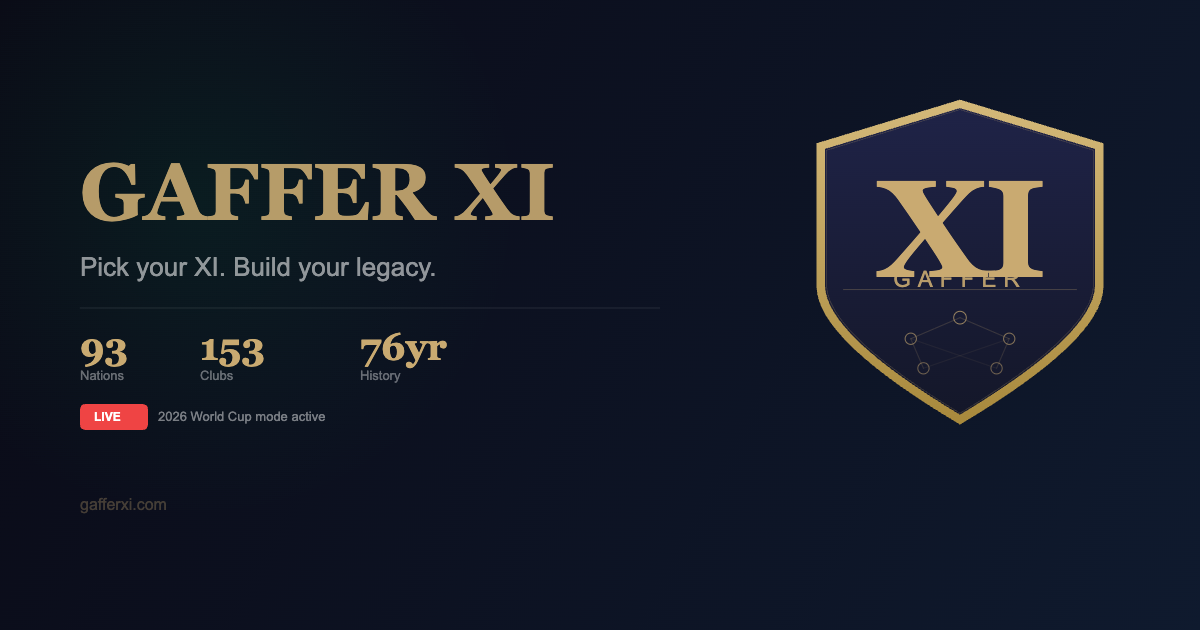
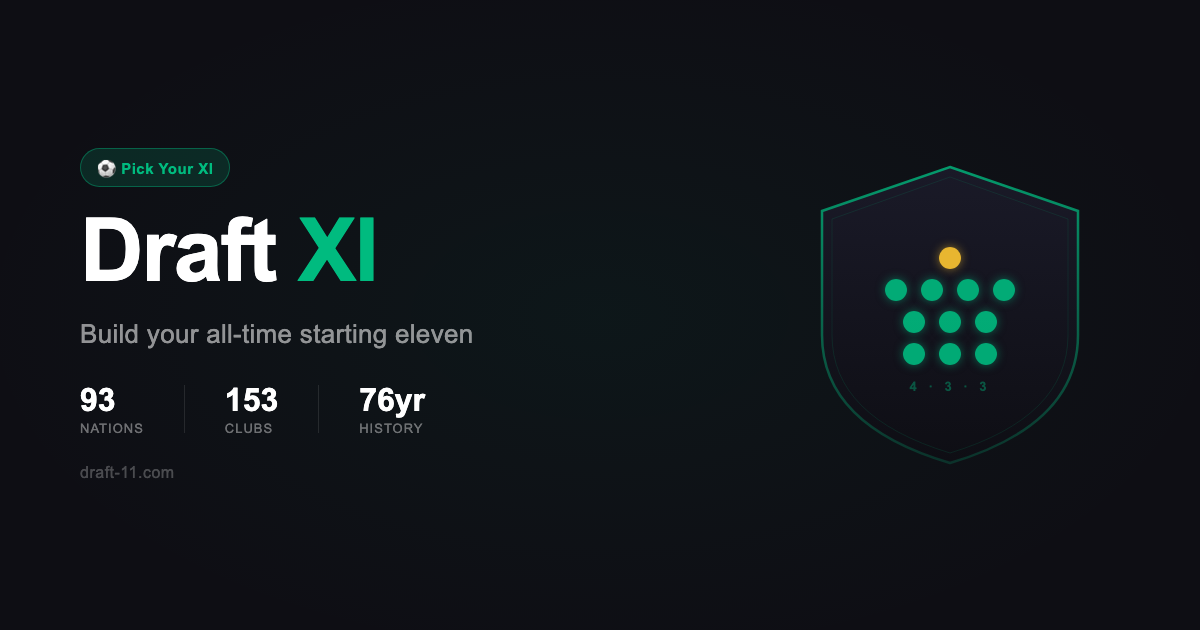
feat: update OG share image to Draft XI branding
Replaces old Gaffer XI preview card with new dark-theme 1200×630 image
showing Draft XI name, green accent, formation shield, and draft-11.com URL.

diff --git a/_og-gen.html b/_og-gen.html
@@ -1,0 +1,228 @@
+<!DOCTYPE html>
+<html>
+<head>
+<meta charset="utf-8">
+<style>
+  * { margin: 0; padding: 0; box-sizing: border-box; }
+  body {
+    width: 1200px; height: 630px; overflow: hidden;
+    background: #0e0e14;
+    font-family: -apple-system, 'SF Pro Display', 'Segoe UI', Arial, sans-serif;
+    display: flex; align-items: center; justify-content: space-between;
+    padding: 0 80px;
+    position: relative;
+  }
+
+  /* Subtle pitch lines in background */
+  body::before {
+    content: '';
+    position: absolute; inset: 0;
+    background:
+      radial-gradient(ellipse 900px 500px at 50% 50%, rgba(0,187,127,0.05) 0%, transparent 70%);
+    pointer-events: none;
+  }
+
+  /* Decorative arc lines like a pitch */
+  .pitch-bg {
+    position: absolute; inset: 0;
+    opacity: 0.06;
+  }
+
+  .left {
+    flex: 1;
+    display: flex; flex-direction: column;
+    gap: 20px;
+    z-index: 1;
+  }
+
+  .tag {
+    display: inline-flex; align-items: center; gap: 8px;
+    background: rgba(0,187,127,0.15);
+    border: 1px solid rgba(0,187,127,0.4);
+    border-radius: 999px;
+    padding: 6px 16px;
+    width: fit-content;
+    color: #00bb7f;
+    font-size: 15px;
+    font-weight: 600;
+    letter-spacing: 0.5px;
+  }
+
+  .title {
+    font-size: 88px;
+    font-weight: 800;
+    color: #ffffff;
+    line-height: 1;
+    letter-spacing: -2px;
+  }
+
+  .title span {
+    color: #00bb7f;
+  }
+
+  .subtitle {
+    font-size: 26px;
+    color: rgba(255,255,255,0.55);
+    font-weight: 400;
+    letter-spacing: 0.3px;
+    margin-top: 4px;
+  }
+
+  .stats {
+    display: flex; gap: 40px;
+    margin-top: 12px;
+  }
+
+  .stat {
+    display: flex; flex-direction: column; gap: 2px;
+  }
+
+  .stat-num {
+    font-size: 32px;
+    font-weight: 700;
+    color: #ffffff;
+  }
+
+  .stat-label {
+    font-size: 13px;
+    color: rgba(255,255,255,0.4);
+    text-transform: uppercase;
+    letter-spacing: 1px;
+  }
+
+  .divider {
+    width: 1px; height: 48px;
+    background: rgba(255,255,255,0.1);
+    align-self: center;
+  }
+
+  .url {
+    margin-top: 8px;
+    font-size: 16px;
+    color: rgba(255,255,255,0.25);
+    letter-spacing: 0.5px;
+  }
+
+  /* Right side: formation badge */
+  .right {
+    flex-shrink: 0;
+    width: 340px;
+    display: flex; align-items: center; justify-content: center;
+    z-index: 1;
+  }
+
+  .badge {
+    width: 280px; height: 320px;
+    position: relative;
+    display: flex; align-items: center; justify-content: center;
+  }
+
+  .badge svg {
+    width: 100%; height: 100%;
+  }
+
+  .formation-grid {
+    position: absolute;
+    inset: 0;
+    display: flex; flex-direction: column;
+    align-items: center; justify-content: center;
+    gap: 10px;
+    padding: 60px 30px 50px;
+  }
+
+  .row {
+    display: flex; gap: 14px; justify-content: center;
+  }
+
+  .dot {
+    width: 22px; height: 22px;
+    border-radius: 50%;
+    background: rgba(0,187,127,0.9);
+    box-shadow: 0 0 10px rgba(0,187,127,0.5);
+  }
+
+  .dot.gk {
+    background: rgba(255,200,50,0.9);
+    box-shadow: 0 0 10px rgba(255,200,50,0.5);
+  }
+</style>
+</head>
+<body>
+
+<div class="left">
+  <div class="tag">⚽ Pick Your XI</div>
+  <div class="title">Draft<span> XI</span></div>
+  <div class="subtitle">Build your all-time starting eleven</div>
+  <div class="stats">
+    <div class="stat">
+      <div class="stat-num">93</div>
+      <div class="stat-label">Nations</div>
+    </div>
+    <div class="divider"></div>
+    <div class="stat">
+      <div class="stat-num">153</div>
+      <div class="stat-label">Clubs</div>
+    </div>
+    <div class="divider"></div>
+    <div class="stat">
+      <div class="stat-num">76yr</div>
+      <div class="stat-label">History</div>
+    </div>
+  </div>
+  <div class="url">draft-11.com</div>
+</div>
+
+<div class="right">
+  <div class="badge">
+    <!-- Shield shape -->
+    <svg viewBox="0 0 280 320" xmlns="http://www.w3.org/2000/svg">
+      <defs>
+        <linearGradient id="shieldGrad" x1="0" y1="0" x2="0" y2="1">
+          <stop offset="0%" stop-color="#1a1a28"/>
+          <stop offset="100%" stop-color="#0e0e14"/>
+        </linearGradient>
+        <linearGradient id="borderGrad" x1="0" y1="0" x2="0" y2="1">
+          <stop offset="0%" stop-color="#00bb7f" stop-opacity="0.8"/>
+          <stop offset="100%" stop-color="#00bb7f" stop-opacity="0.2"/>
+        </linearGradient>
+      </defs>
+      <!-- Shield fill -->
+      <path d="M140 12 L268 56 L268 180 Q268 270 140 308 Q12 270 12 180 L12 56 Z"
+            fill="url(#shieldGrad)" stroke="url(#borderGrad)" stroke-width="2.5"/>
+      <!-- Inner line -->
+      <path d="M140 22 L258 64 L258 180 Q258 262 140 298 Q22 262 22 180 L22 64 Z"
+            fill="none" stroke="rgba(0,187,127,0.12)" stroke-width="1"/>
+    </svg>
+    <!-- Formation dots 4-3-3 -->
+    <div class="formation-grid">
+      <!-- GK -->
+      <div class="row">
+        <div class="dot gk"></div>
+      </div>
+      <!-- DEF 4 -->
+      <div class="row">
+        <div class="dot"></div>
+        <div class="dot"></div>
+        <div class="dot"></div>
+        <div class="dot"></div>
+      </div>
+      <!-- MID 3 -->
+      <div class="row">
+        <div class="dot"></div>
+        <div class="dot"></div>
+        <div class="dot"></div>
+      </div>
+      <!-- FWD 3 -->
+      <div class="row">
+        <div class="dot"></div>
+        <div class="dot"></div>
+        <div class="dot"></div>
+      </div>
+      <!-- XI text -->
+      <div style="color: rgba(0,187,127,0.4); font-size: 13px; font-weight: 700; letter-spacing: 4px; margin-top: 4px;">4 · 3 · 3</div>
+    </div>
+  </div>
+</div>
+
+</body>
+</html>

diff --git a/sw.js b/sw.js
@@ -1,6 +1,6 @@
 /* Service worker: network-first so the latest build always loads when online,
  * falling back to cache when offline (the app still installs + works offline). */
-const CACHE = "wcxi-v159";
+const CACHE = "wcxi-v160";
 const ASSETS = [
   "./", "./index.html", "./style.css", "./tokens.css", "./floodlights.css", "./floodlights.js", "./audio.js", "./ratingswar.js", "./draftvscomputer.js",
   "./data.js", "./data_extra.js", "./data_full.js", "./data_legacy.js", "./data_full2.js", "./data_wc_history.js", "./data_patches.js", "./ratings_overrides.js", "./positions.js", "./data_fixups.js", "./cl_clubs.js", "./cl_data.js", "./cl_data2.js", "./nations.js", "./engine.js", "./game.js",
